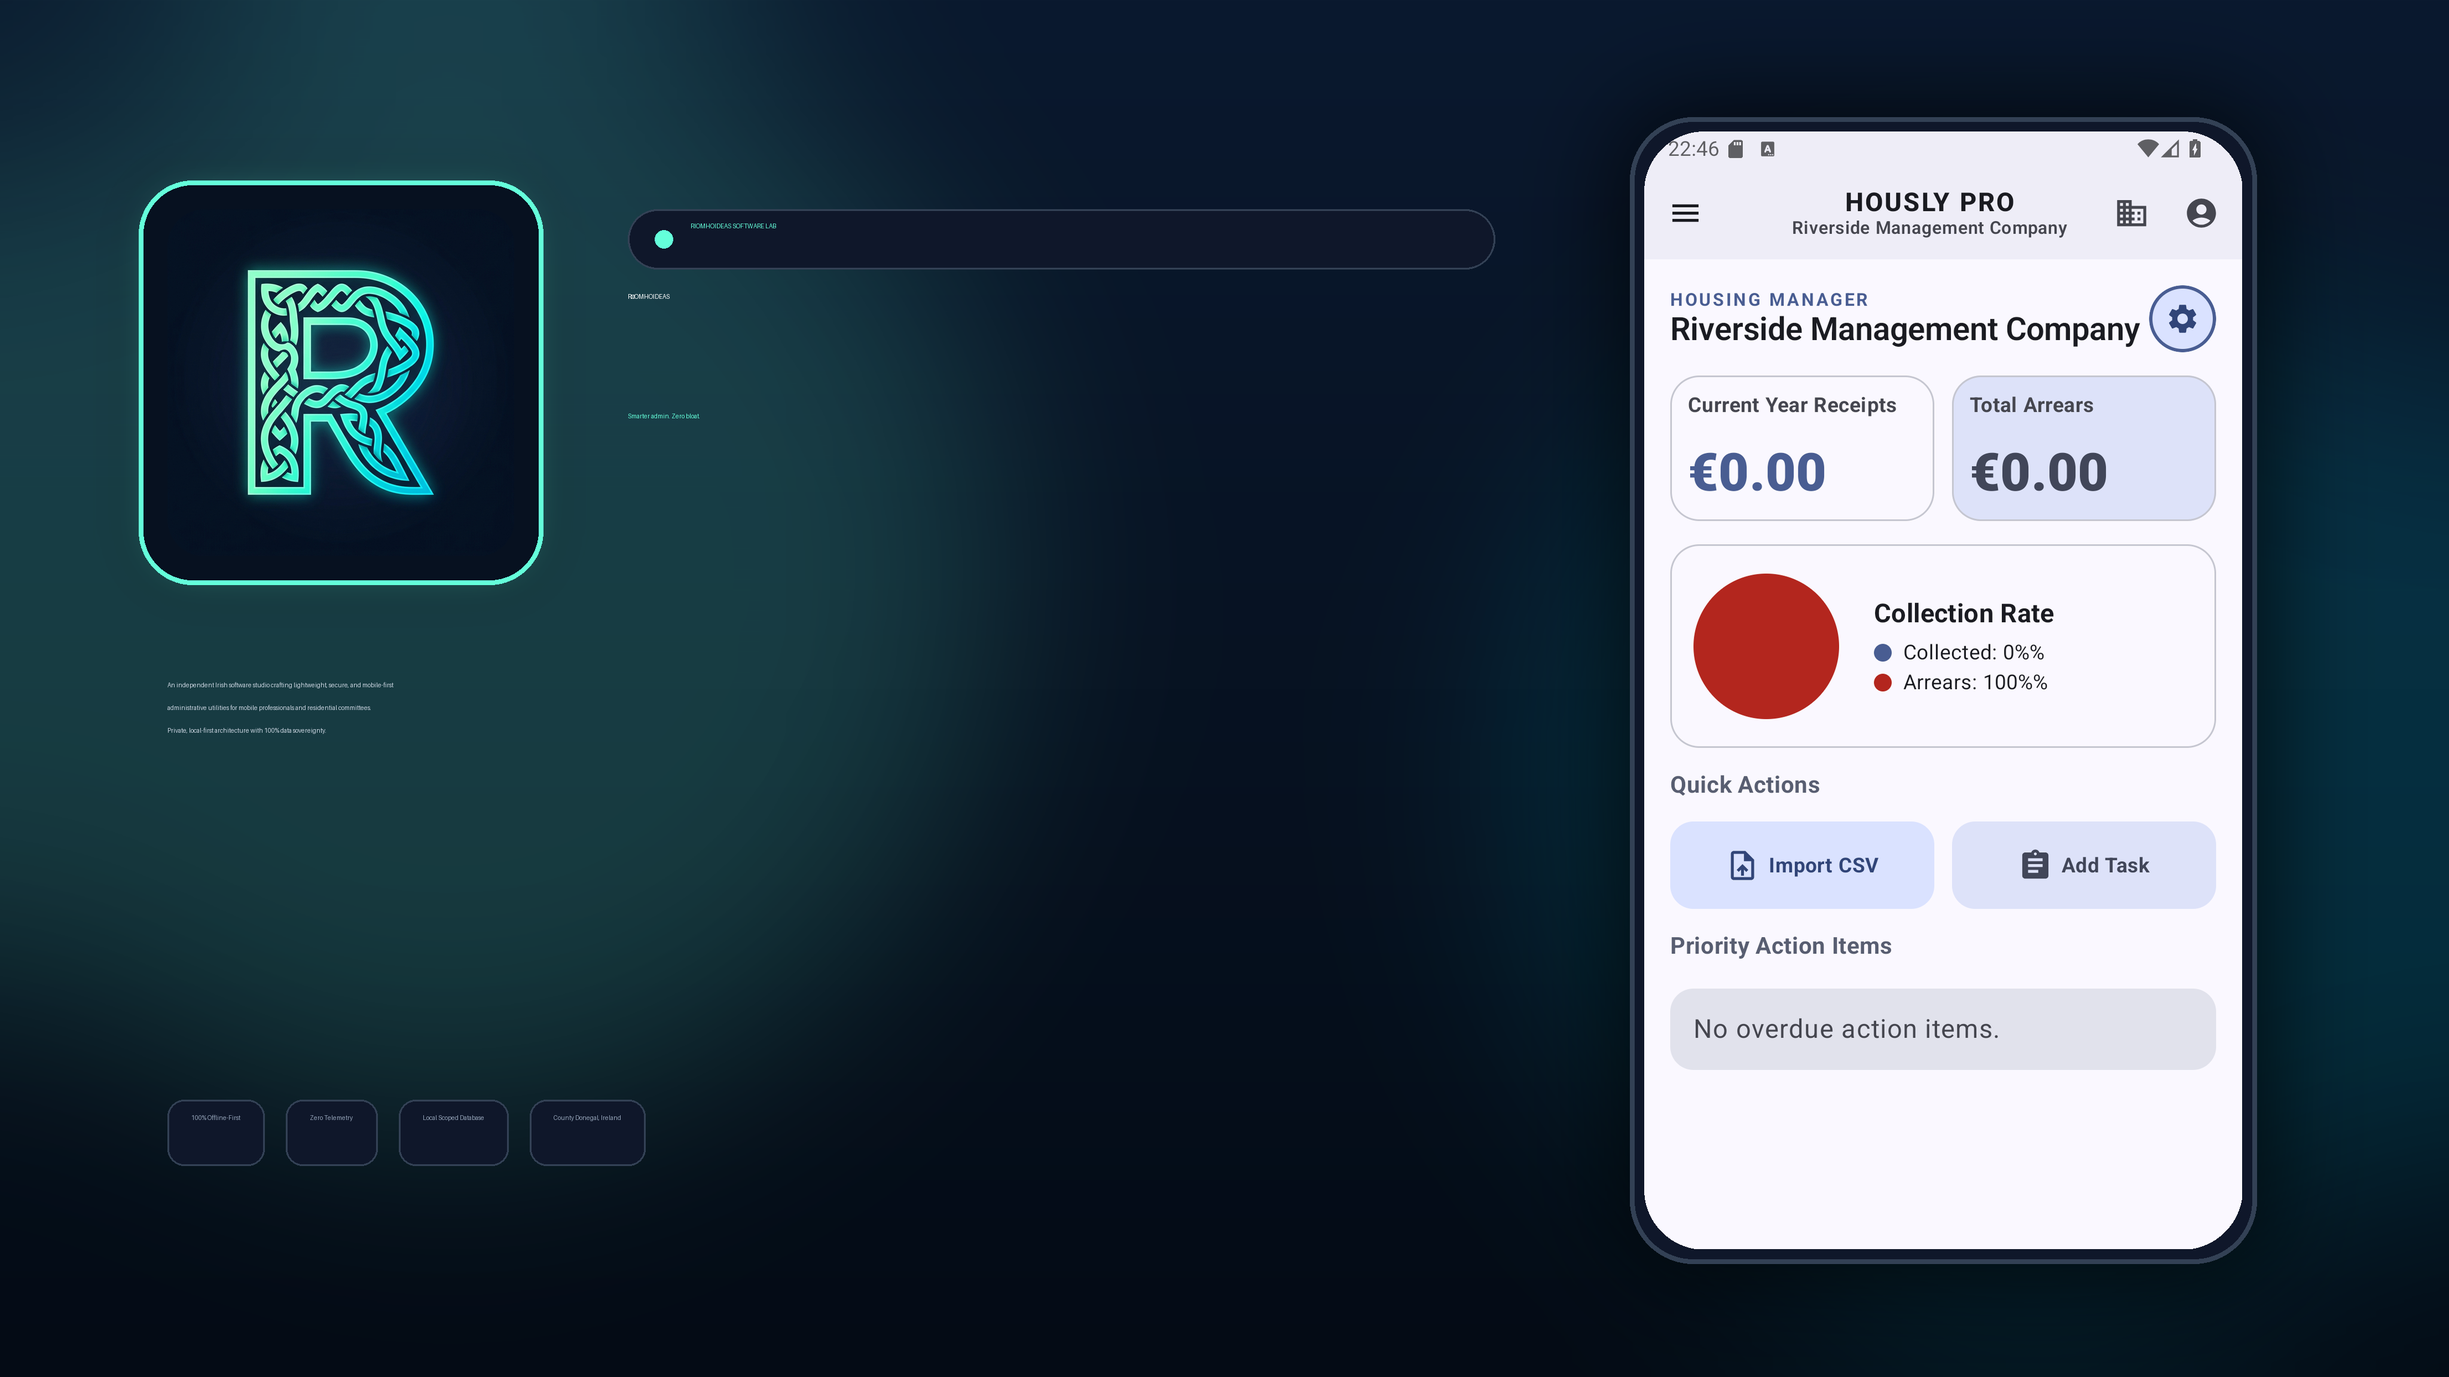
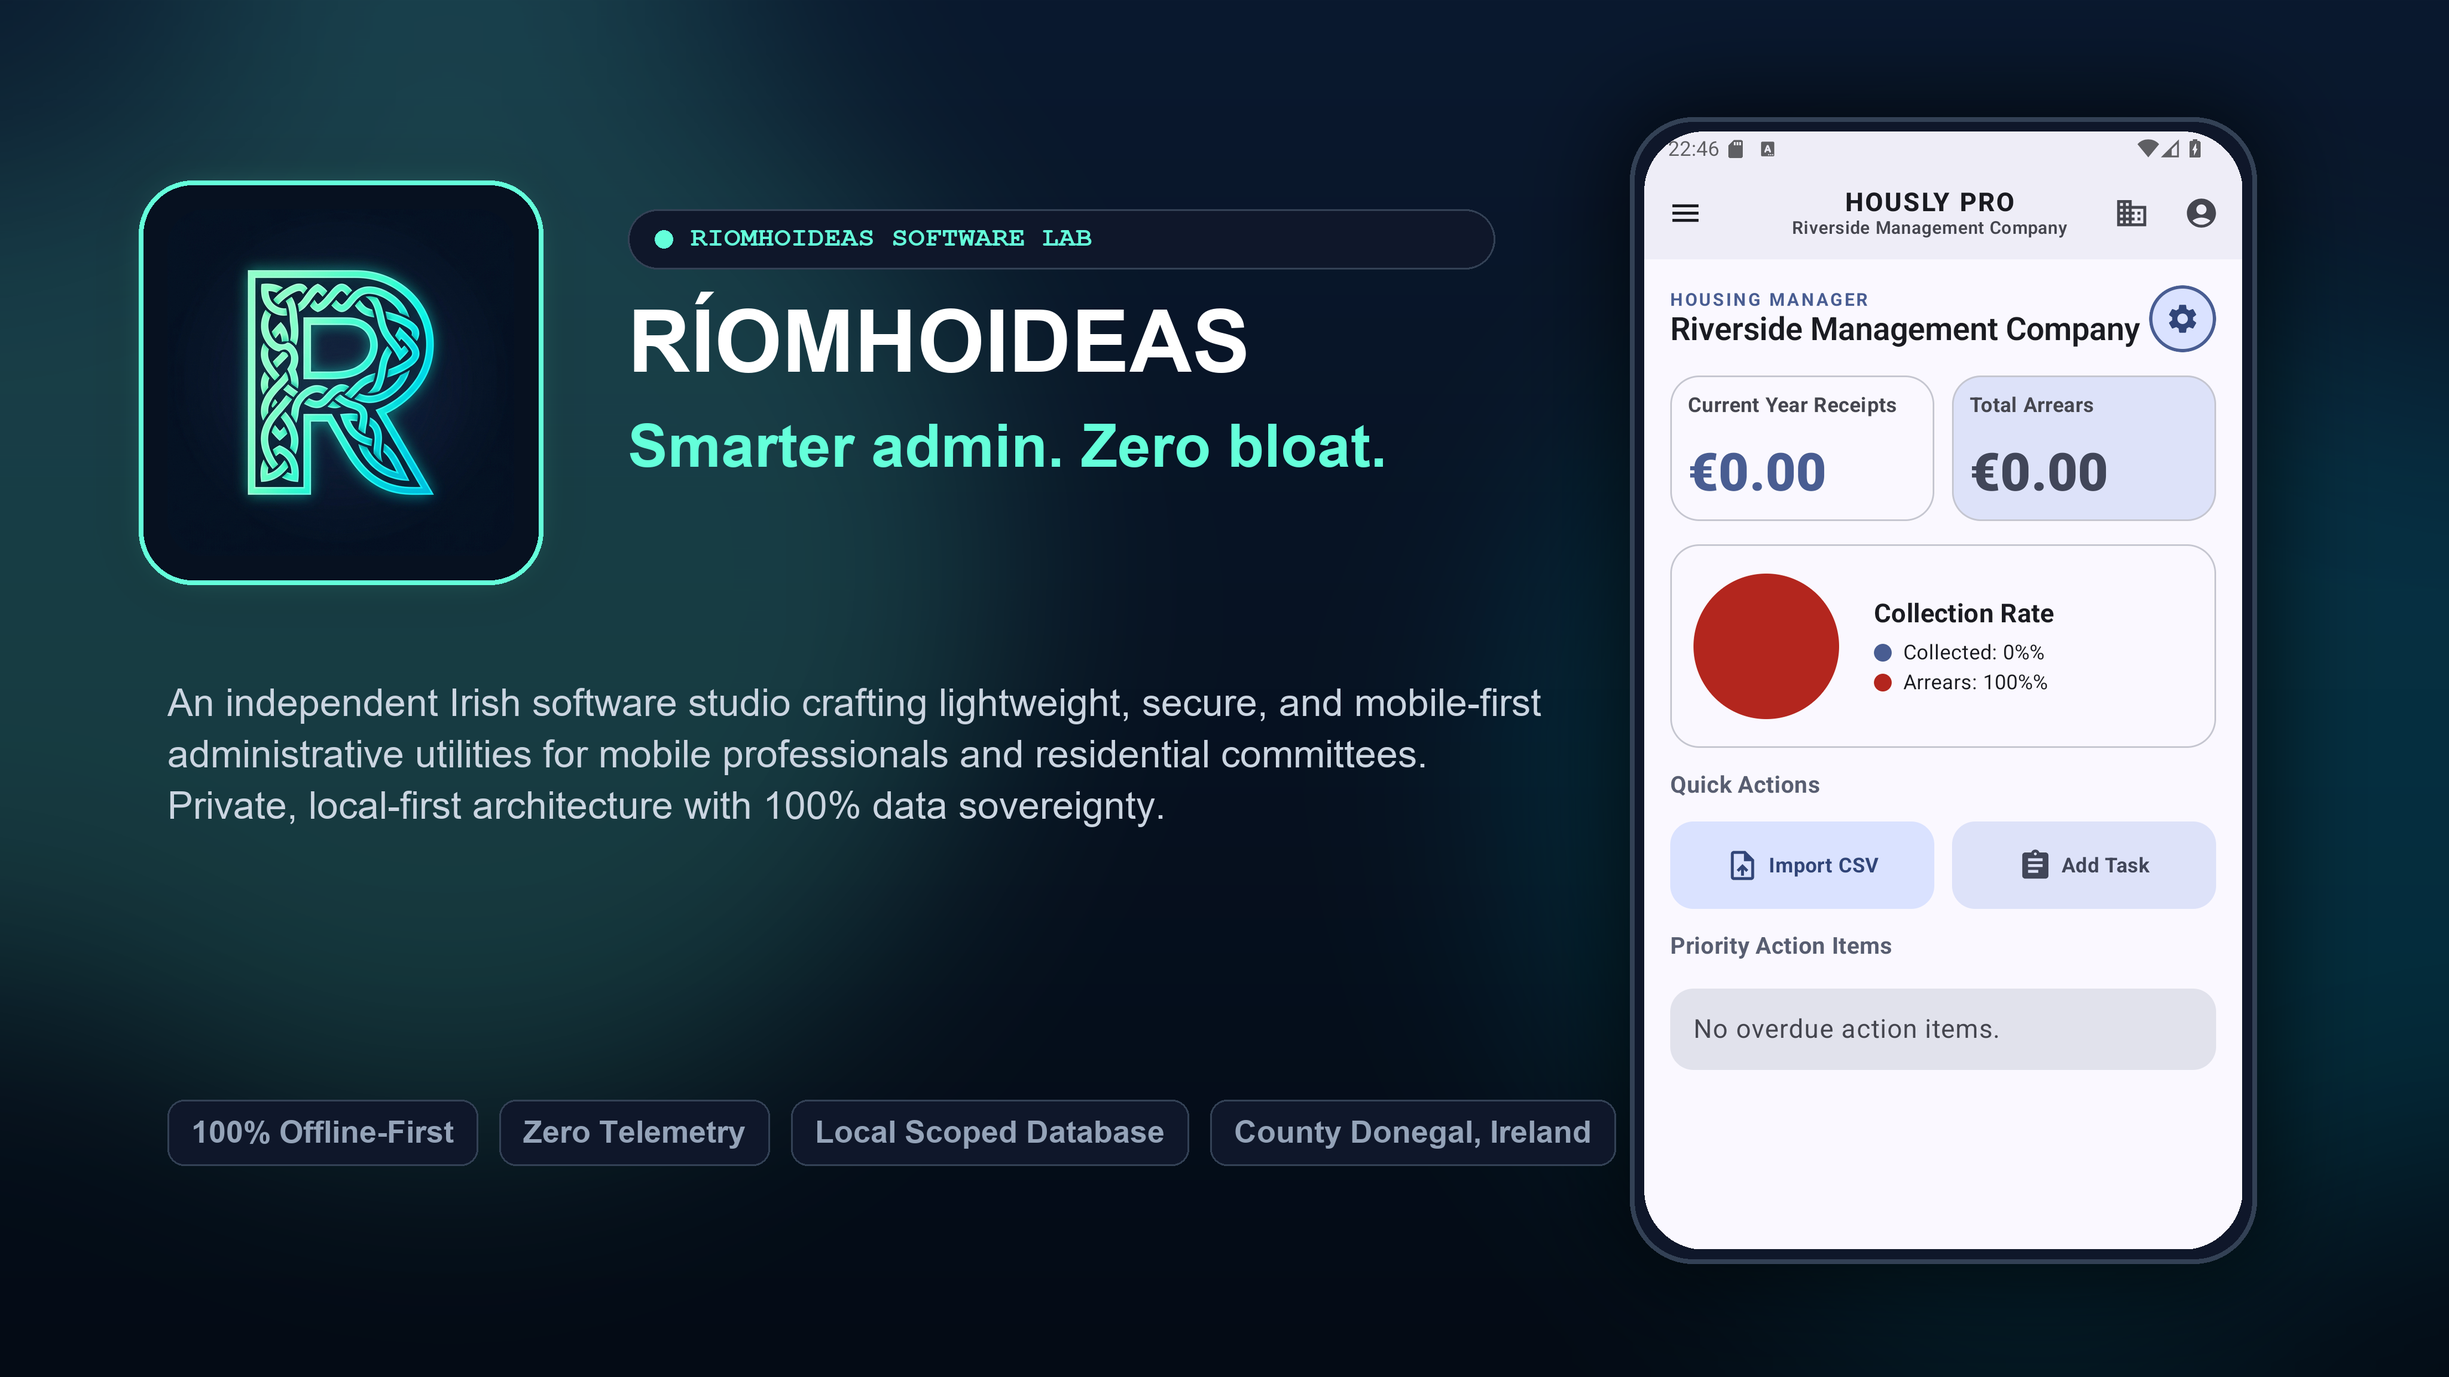
feat: address 18 code review suggestions for security, caching, and tests
- Harden apps-script against CSV/formula injection and hoist regexes
- Simplify findRecentDuplicateRow parameter signature
- Implement memory caching for fonts and images in graphic generator scripts
- Add unit test suite for graphic_utils covering edge cases and error paths
- Configure Content Security Policy (CSP) in index.html

diff --git a/apps-script/Code.js b/apps-script/Code.js
@@ -1,10 +1,12 @@
 const sheetName = 'Sheet1';
+const FORMULA_INJECTION_REGEX = /^\s*[=+\-@\t\r%|]/;
+const EMAIL_REGEX = /^[^\s@]+@[^\s@]+\.[^\s@]+$/;
 
 /**
  * Escapes characters that trigger formula execution in spreadsheet software.
  */
 function escapeFormula(val) {
-  if (typeof val === 'string' && /^[=+\-@\t\r%|]/.test(val)) {
+  if (typeof val === 'string' && FORMULA_INJECTION_REGEX.test(val)) {
     return "'" + val;
   }
   return val;
@@ -28,7 +30,7 @@ function validateInputs(parameter) {
   }
 
   const email = rawEmail.trim().toLowerCase();
-  if (!/^[^\s@]+@[^\s@]+\.[^\s@]+$/.test(email)) {
+  if (!EMAIL_REGEX.test(email)) {
     throw new Error("Invalid email address.");
   }
 
@@ -74,9 +76,24 @@ function enforceRateLimits(cache, email, nowMs) {
 
 /**
  * Scans recent rows to check for duplicate submission within 10 minutes.
+ * Accepts either a submission data object or individual field parameters.
  */
-function findRecentDuplicateRow(sheet, rawName, rawEmail, rawType, rawDetails, optionalLastRow) {
-  const lastRow = optionalLastRow !== undefined ? optionalLastRow : sheet.getLastRow();
+function findRecentDuplicateRow(sheet, rawNameOrData, rawEmail, rawType, rawDetails, optionalLastRow) {
+  let rawName = rawNameOrData;
+  let email = rawEmail;
+  let type = rawType;
+  let details = rawDetails;
+  let actualLastRow = optionalLastRow;
+
+  if (rawNameOrData && typeof rawNameOrData === 'object') {
+    rawName = rawNameOrData.rawName || rawNameOrData.name || '';
+    email = rawNameOrData.rawEmail || rawNameOrData.email || '';
+    type = rawNameOrData.rawType || rawNameOrData.projectType || '';
+    details = rawNameOrData.rawDetails || rawNameOrData.details || '';
+    actualLastRow = typeof rawEmail === 'number' ? rawEmail : optionalLastRow;
+  }
+
+  const lastRow = actualLastRow !== undefined ? actualLastRow : sheet.getLastRow();
   if (lastRow <= 1) return -1;
 
   // Scan only the most recent rows (up to 25) instead of the entire sheet
@@ -94,7 +111,7 @@ function findRecentDuplicateRow(sheet, rawName, rawEmail, rawType, rawDetails, o
       break;
     }
 
-    if (String(row[1]) === rawName && String(row[2]) === rawEmail && String(row[3]) === rawType && String(row[4]) === rawDetails) {
+    if (String(row[1]) === rawName && String(row[2]) === email && String(row[3]) === type && String(row[4]) === details) {
       return startRow + i;
     }
   }
@@ -129,7 +146,7 @@ function doPost(e) {
       }
 
       // Check for recent duplicate to handle retries gracefully
-      rowIndex = findRecentDuplicateRow(sheet, validated.rawName, validated.rawEmail, validated.rawType, validated.rawDetails, lastRow);
+      rowIndex = findRecentDuplicateRow(sheet, validated, lastRow);
 
       const timestamp = new Date();
 

diff --git a/tests/code.test.js b/tests/code.test.js
@@ -80,6 +80,9 @@ test.beforeEach(() => {
 
 test('Formula Escaping Helper covers Excel/CSV injection triggers', () => {
   assert.strictEqual(escapeFormula('=SUM(1,2)'), "'=SUM(1,2)");
+  assert.strictEqual(escapeFormula(' =SUM(1,2)'), "' =SUM(1,2)");
+  assert.strictEqual(escapeFormula('   +cmd|'), "'   +cmd|");
+  assert.strictEqual(escapeFormula('\t=1+1'), "'\t=1+1");
   assert.strictEqual(escapeFormula('+cmd|'), "'+cmd|");
   assert.strictEqual(escapeFormula('-cmd'), "'-cmd");
   assert.strictEqual(escapeFormula('@test'), "'@test");
@@ -206,6 +209,23 @@ test('findRecentDuplicateRow identifies matching recent submissions and respects
   // Non-matching field returns -1
   const differentDetails = findRecentDuplicateRow(mockSheet, 'Alice', 'alice@example.com', 'Mobile', 'Different detail');
   assert.strictEqual(differentDetails, -1);
+
+  // Object parameter passing works identically
+  const objectMatchIndex = findRecentDuplicateRow(mockSheet, {
+    rawName: 'Alice',
+    rawEmail: 'alice@example.com',
+    rawType: 'Mobile',
+    rawDetails: 'Need an app'
+  });
+  assert.strictEqual(objectMatchIndex, 3);
+
+  const objectNameMatchIndex = findRecentDuplicateRow(mockSheet, {
+    name: 'Alice',
+    email: 'alice@example.com',
+    projectType: 'Mobile',
+    details: 'Need an app'
+  });
+  assert.strictEqual(objectNameMatchIndex, 3);
 });
 
 test('doPost handles duplicate submissions by updating existing row without appending a new row', () => {

diff --git a/index.html b/index.html
@@ -4,6 +4,7 @@
 <head>
   <meta charset="UTF-8">
   <meta name="viewport" content="width=device-width, initial-scale=1.0">
+  <meta http-equiv="Content-Security-Policy" content="default-src 'self'; script-src 'self' 'unsafe-inline' https://cdn.tailwindcss.com; style-src 'self' 'unsafe-inline'; img-src 'self' data: https:; connect-src https://script.google.com https://script.googleusercontent.com; font-src 'self' data:; object-src 'none'; base-uri 'self';">
   <title>Riomhoideas | Smarter admin. Zero bloat.</title>
   <meta name="description" content="An independent Irish software lab crafting lightweight, offline-first mobile utilities for small businesses and residential committees. Fast, private, and 100% data ownership.">
   <meta name="keywords" content="Riomhoideas, Pocket Office Pro, Hously Pro, Invoicing App, Estate Management, Ireland, Offline-First, Privacy">

diff --git a/tests/test_graphic_utils.py b/tests/test_graphic_utils.py
@@ -1,0 +1,111 @@
+import os
+import sys
+import unittest
+import tempfile
+from PIL import Image
+
+# Add scratch directory to sys.path
+scratch_dir = os.path.abspath(os.path.join(os.path.dirname(__file__), '..', 'scratch'))
+if scratch_dir not in sys.path:
+    sys.path.insert(0, scratch_dir)
+
+from graphic_utils import (
+    GraphicConfig,
+    create_gradient_background,
+    render_logo_badge,
+    render_phone_screenshot,
+    load_image
+)
+
+
+class TestGraphicUtils(unittest.TestCase):
+
+    def setUp(self):
+        self.temp_dir = tempfile.TemporaryDirectory()
+        self.test_img = Image.new("RGBA", (200, 100), (10, 20, 30, 255))
+
+    def tearDown(self):
+        self.temp_dir.cleanup()
+
+    def test_graphic_config_default_badges(self):
+        """Verifies that GraphicConfig.__post_init__ assigns default badges when none provided."""
+        config = GraphicConfig(
+            logo_path="dummy_logo.png",
+            screenshot_path="dummy_ss.png",
+            output_path="dummy_out.png",
+            app_name="App",
+            tagline="Tag",
+            subtag="Sub"
+        )
+        expected_badges = [
+            "100% Offline-First",
+            "Zero Telemetry",
+            "Local Scoped Database",
+            "County Donegal, Ireland"
+        ]
+        self.assertEqual(config.badges, expected_badges)
+
+    def test_render_logo_badge_missing_path_returns_original_image(self):
+        """Verifies render_logo_badge returns original image unmodified if logo path does not exist."""
+        missing_path = os.path.join(self.temp_dir.name, "non_existent_logo.png")
+        result = render_logo_badge(
+            img=self.test_img,
+            logo_path=missing_path,
+            x=10,
+            y=10,
+            size=50,
+            badge_radius=10,
+            badge_pad=5
+        )
+        self.assertIs(result, self.test_img)
+
+    def test_render_phone_screenshot_missing_path_returns_original_image(self):
+        """Verifies render_phone_screenshot returns original image unmodified if screenshot path does not exist."""
+        missing_path = os.path.join(self.temp_dir.name, "non_existent_ss.png")
+        result = render_phone_screenshot(
+            img=self.test_img,
+            screenshot_path=missing_path,
+            chassis_x=10,
+            chassis_y=10,
+            ph_w=50,
+            crop_h=80
+        )
+        self.assertIs(result, self.test_img)
+
+    def test_create_gradient_background_height_one_edge_case(self):
+        """Verifies that create_gradient_background handles height=1 without ZeroDivisionError."""
+        top_color = (10, 25, 47, 255)
+        bottom_color = (4, 11, 21, 255)
+        grad = create_gradient_background(width=50, height=1, top_color=top_color, bottom_color=bottom_color)
+        self.assertEqual(grad.size, (50, 1))
+        self.assertEqual(grad.mode, "RGBA")
+
+    def test_create_gradient_background_dimensions_and_colors(self):
+        """Verifies that create_gradient_background generates expected dimensions and base colors."""
+        top_color = (10, 25, 47, 255)
+        bottom_color = (4, 11, 21, 255)
+        width, height = 200, 100
+        grad = create_gradient_background(width=width, height=height, top_color=top_color, bottom_color=bottom_color)
+
+        self.assertEqual(grad.size, (width, height))
+        self.assertEqual(grad.mode, "RGBA")
+
+        # Check top pixel (y=0) and bottom pixel (y=height-1)
+        top_pixel = grad.getpixel((width // 2, 0))
+        bottom_pixel = grad.getpixel((width // 2, height - 1))
+        self.assertEqual(top_pixel, top_color)
+        self.assertEqual(bottom_pixel, bottom_color)
+
+    def test_load_image_caching(self):
+        """Verifies that load_image caches the PIL Image in memory across calls."""
+        img_path = os.path.join(self.temp_dir.name, "sample.png")
+        sample = Image.new("RGBA", (64, 64), (100, 150, 200, 255))
+        sample.save(img_path)
+
+        first_loaded = load_image(img_path)
+        second_loaded = load_image(img_path)
+        self.assertIs(first_loaded, second_loaded)
+
+
+if __name__ == '__main__':
+    unittest.main()

diff --git a/scratch/make_4096x2304_headers.py b/scratch/make_4096x2304_headers.py
@@ -1,3 +1,4 @@
+import functools
 import os
 from PIL import ImageDraw, ImageFont
 from graphic_utils import (
@@ -7,6 +8,13 @@ from graphic_utils import (
     render_logo_badge,
     render_phone_screenshot
 )
+
+@functools.lru_cache(maxsize=32)
+def get_font(font_name: str, size: int):
+    try:
+        return ImageFont.truetype(font_name, size)
+    except Exception:
+        return ImageFont.load_default()
 
 def create_developer_header_graphic(config: GraphicConfig):
     width = config.width
@@ -54,18 +62,11 @@ def create_developer_header_graphic(config: GraphicConfig):
     draw = ImageDraw.Draw(img)
 
     # 5. High-Resolution Typography
-    try:
-        font_brand = ImageFont.truetype("arialbd.ttf", 145)
-        font_tag = ImageFont.truetype("arialbd.ttf", 100)
-        font_sub = ImageFont.truetype("arial.ttf", 64)
-        font_pill = ImageFont.truetype("courbd.ttf", 46)
-        font_stat = ImageFont.truetype("arialbd.ttf", 52)
-    except Exception:
-        font_brand = ImageFont.load_default()
-        font_tag = ImageFont.load_default()
-        font_sub = ImageFont.load_default()
-        font_pill = ImageFont.load_default()
-        font_stat = ImageFont.load_default()
+    font_brand = get_font("arialbd.ttf", 145)
+    font_tag = get_font("arialbd.ttf", 100)
+    font_sub = get_font("arial.ttf", 64)
+    font_pill = get_font("courbd.ttf", 46)
+    font_stat = get_font("arialbd.ttf", 52)
 
     # Studio Pill
     pill_x = 1050

diff --git a/scratch/make_feature_graphics.py b/scratch/make_feature_graphics.py
@@ -1,3 +1,4 @@
+import functools
 import os
 from PIL import ImageDraw, ImageFont
 from graphic_utils import (
@@ -7,6 +8,13 @@ from graphic_utils import (
     render_logo_badge,
     render_phone_screenshot
 )
+
+@functools.lru_cache(maxsize=32)
+def get_font(font_name: str, size: int):
+    try:
+        return ImageFont.truetype(font_name, size)
+    except Exception:
+        return ImageFont.load_default()
 
 def create_feature_graphic(config: GraphicConfig):
     width = config.width
@@ -54,18 +62,11 @@ def create_feature_graphic(config: GraphicConfig):
     draw = ImageDraw.Draw(img)
 
     # 5. Typography via System Font
-    try:
-        font_brand = ImageFont.truetype("arialbd.ttf", 36)
-        font_tag = ImageFont.truetype("arialbd.ttf", 26)
-        font_sub = ImageFont.truetype("arial.ttf", 16)
-        font_pill = ImageFont.truetype("courbd.ttf", 12)
-        font_stat = ImageFont.truetype("arialbd.ttf", 13)
-    except Exception:
-        font_brand = ImageFont.load_default()
-        font_tag = ImageFont.load_default()
-        font_sub = ImageFont.load_default()
-        font_pill = ImageFont.load_default()
-        font_stat = ImageFont.load_default()
+    font_brand = get_font("arialbd.ttf", 36)
+    font_tag = get_font("arialbd.ttf", 26)
+    font_sub = get_font("arial.ttf", 16)
+    font_pill = get_font("courbd.ttf", 12)
+    font_stat = get_font("arialbd.ttf", 13)
 
     # Studio Pill
     pill_x = 260

diff --git a/scratch/graphic_utils.py b/scratch/graphic_utils.py
@@ -1,7 +1,16 @@
+import functools
 import os
 from dataclasses import dataclass
 from typing import List, Tuple, Optional
-from PIL import Image, ImageDraw, ImageFont, ImageFilter
+from PIL import Image, ImageDraw, ImageFilter
+
+
+@functools.lru_cache(maxsize=32)
+def load_image(image_path: str) -> Image.Image:
+    """
+    Loads and caches RGBA PIL images in memory to prevent repeated disk I/O.
+    """
+    return Image.open(image_path).convert("RGBA")
 
 @dataclass
 class GraphicConfig:
@@ -72,7 +81,7 @@ def render_logo_badge(img: Image.Image, logo_path: str, x: int, y: int, size: in
         return img
 
     width, height = img.size
-    logo = Image.open(logo_path).convert("RGBA")
+    logo = load_image(logo_path).copy()
     logo = logo.resize((size, size), Image.Resampling.LANCZOS)
 
     badge_rect = [
@@ -110,7 +119,7 @@ def render_phone_screenshot(img: Image.Image, screenshot_path: str, chassis_x: i
         return img
 
     width, height = img.size
-    ss = Image.open(screenshot_path).convert("RGBA")
+    ss = load_image(screenshot_path).copy()
     ss_resized = ss.resize((ph_w, int(ph_w * (ss.height / ss.width))), Image.Resampling.LANCZOS)
 
     # Drop shadow
